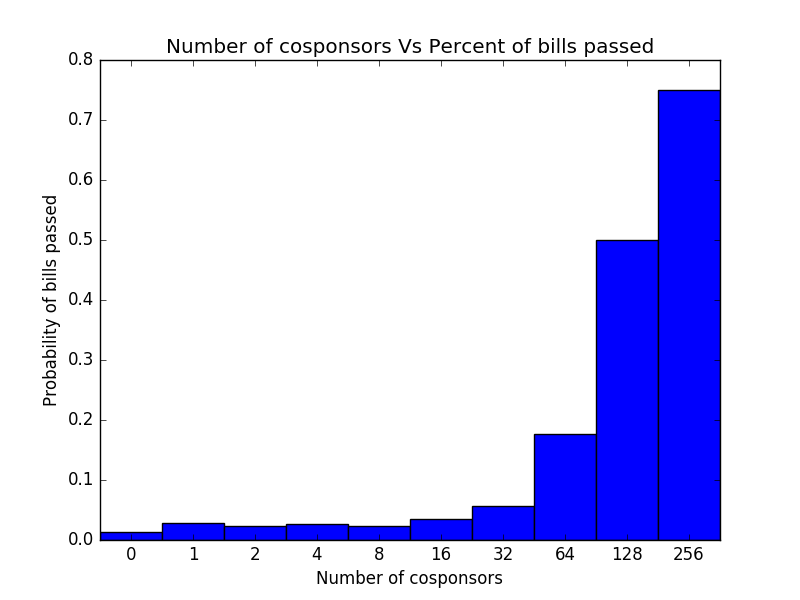
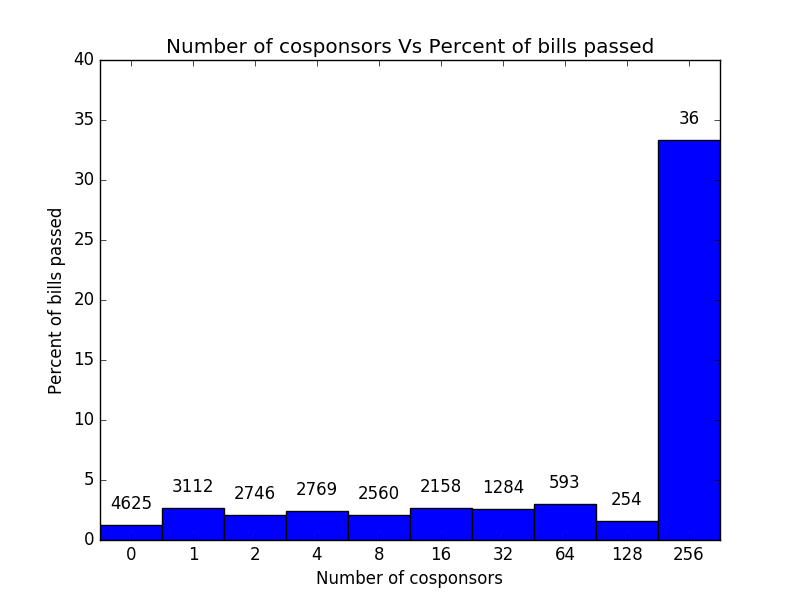
fixed cosponsors

diff --git a/analyze.py b/analyze.py
@@ -115,17 +115,15 @@ def bills_per_committee_normalized(data):
     plt.show()
 
 def cosponsors_v_pass(data):
-    cosp_v_pass = {}
+    cosp_v_pass = {k:{'passed':0,'total':0} for k in range(511)}
     count = 0
     for session in data.values():
         for typ in session.values():
             for bill in typ.values():
-
-                num_csp = cosp_v_pass.get(len(bill['cosponsors']),{"passed":0,"total":0}) 
+                num_csp = cosp_v_pass[len(bill['cosponsors'])] 
                 num_csp["total"] += 1
 
                 if "becamePublicLaw" in bill['actions']:
-                    count += 1
                     num_csp['passed'] += 1
                     cosp_v_pass[len(bill['cosponsors'])] = num_csp
 
@@ -144,8 +142,7 @@ def cosponsors_v_pass(data):
             num_csp_buckets[2**int(floor(log(num,2)))]['total'] += info['total']
 
 
-
-    num_csp_buckets1 = {k:v['passed']/v['total'] for k,v in num_csp_buckets.items()}
+    num_csp_buckets1 = {k:(100.*(v['passed']/v['total']) if v['total'] != 0 else 0) for k,v in num_csp_buckets.items()}
 
     buckets = sorted(num_csp_buckets)
     totals = [num_csp_buckets[x]['total'] for x in buckets]
@@ -156,11 +153,18 @@ def cosponsors_v_pass(data):
     chart1 = ax.bar(np.arange(int(ceil(log(size,2))) + 1), probs, 1)
 
     fig.canvas.set_window_title("cosponsors_vs_bills_passed_fixed")
-    ax.set_ylabel("Probability of bills passed")
+    ax.set_ylabel("Percent of bills passed")
     ax.set_xlabel("Number of cosponsors")
     ax.set_title("Number of cosponsors Vs Percent of bills passed")
     ax.set_xticks(np.arange(int(ceil(log(size,2))) + 1) + .5)
+    ax.set_yticks(np.arange(0,45,5))
+    ax.set_yticklabels(np.arange(0,45,5))
     ax.set_xticklabels([str(x) for x in buckets])
+
+    for rect, label in zip(ax.patches, totals):
+        height = rect.get_height()
+        ax.text(rect.get_x() + rect.get_width()/2, height + 1, label, ha='center', va='bottom')
+
 
     plt.show()
 
